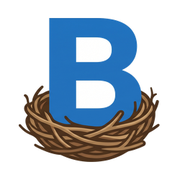
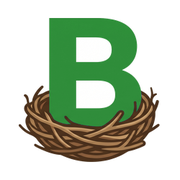
화면: 테마를 파란 계열에서 초록 계열로(토큰·로고 B·탭 아이콘·공유 그림)
Claude-Session: https://claude.ai/code/session_01KhcYhjKCbiau7LiRrK58a6

Changed region(s): [[0.25, 0.0833, 0.8056, 0.7222]]

diff --git a/frontend/src/styles/tokens.css b/frontend/src/styles/tokens.css
@@ -16,12 +16,12 @@
   --color-text: #212529;
   --color-text-muted: #6c757d;
   --color-border: #dee2e6;
-  --color-brand: #1971c2;
-  --color-brand-fill: #1971c2;
+  --color-brand: #2f7d3a;
+  --color-brand-fill: #2f7d3a;
   --color-danger: #c92a2a;
   --thumb-empty: #f1f3f5;
   --color-code-bg: #f8f9fa;
-  --color-focus: #1c7ed6;
+  --color-focus: #2f9e44;
 
   /* 보조 토큰 */
   --color-overlay: rgb(0 0 0 / 40%);
@@ -37,7 +37,7 @@
   --diff-add-strong: #abf2bc;
   --color-toast-bg: #222222;
   --color-toast-text: #ffffff;
-  --color-toast-link: #9cd3ff;
+  --color-toast-link: #8ce99a;
   --color-on-fill: #ffffff;
   /* 014 위험 동작을 채운 버튼 바탕 (--color-on-fill 글자 4.5:1 이상) */
   --color-danger-fill: #c92a2a;
@@ -45,7 +45,7 @@
   --color-mark-bg: #fff3bf;
   /* 화면 다듬기: 단추 면·마우스 올림 면(본문색 4.5:1), 브랜드 옅은 면(브랜드색 글자 4.5:1, 빈 썸네일·태그) */
   --color-hover: #f1f3f5;
-  --color-brand-soft: #e7f5ff;
+  --color-brand-soft: #ebfbee;
 
   /* 기본 프로필 원 8색 (001 FR-051 값, 흰 글자 4.5:1 이상 — 원이 배경이라 두 테마 같은 값) */
   --avatar-1: #1565c0;
@@ -81,12 +81,12 @@
   --color-text: #e9ecef;
   --color-text-muted: #adb5bd;
   --color-border: #343a40;
-  --color-brand: #74c0fc;
-  --color-brand-fill: #1864ab;
+  --color-brand: #69db7c;
+  --color-brand-fill: #2f7d3a;
   --color-danger: #ff6b6b;
   --thumb-empty: #2b2f33;
   --color-code-bg: #1a1b1e;
-  --color-focus: #74c0fc;
+  --color-focus: #69db7c;
 
   /* 보조 토큰 */
   --color-overlay: rgb(0 0 0 / 60%);
@@ -102,12 +102,12 @@
   --diff-add-strong: #2d6b3f;
   --color-toast-bg: #e9ecef;
   --color-toast-text: #121212;
-  --color-toast-link: #1864ab;
+  --color-toast-link: #237032;
   --color-on-fill: #ffffff;
   --color-danger-fill: #c92a2a;
   --color-mark-bg: #5c4b00;
   --color-hover: #2a2d31;
-  --color-brand-soft: #1b2a3a;
+  --color-brand-soft: #1b3324;
 
   --avatar-1: #1565c0;
   --avatar-2: #2e7d32;
